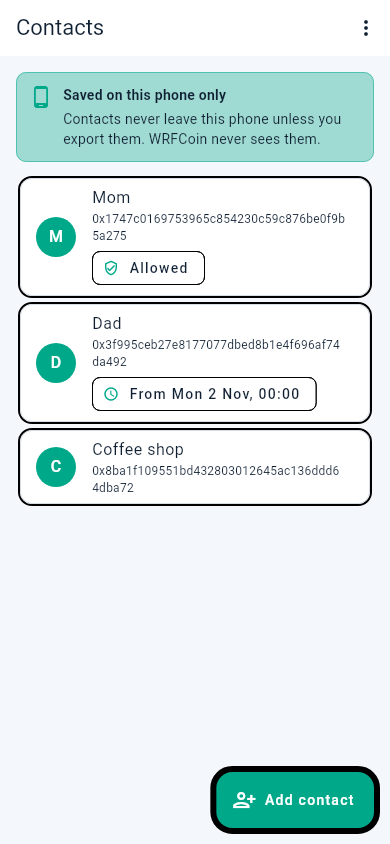
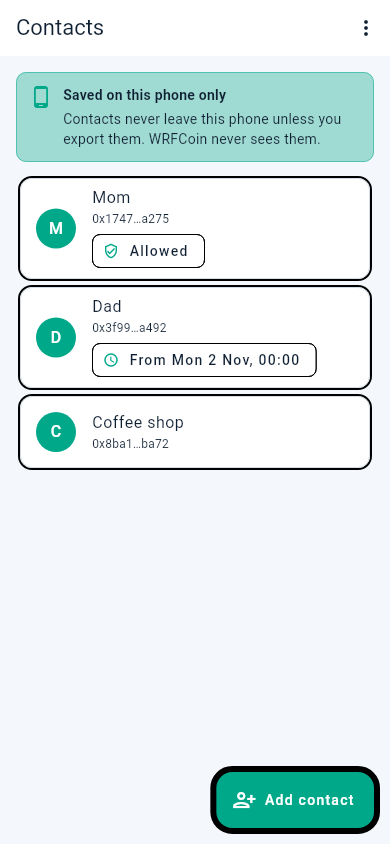
fix(contacts): show the address on one short line (#58)
At phone width the full address ran onto a second line. The list now shows the
short form used elsewhere, like 0x1747…a275. Tapping a contact shows the whole
address, on as many lines as it needs, with a copy button. The import preview still
shows full addresses, since that is where a person checks them before saving.

Claude-Session: https://claude.ai/code/session_01HDDj5uuwph7snk7atTtUPC

Changed region(s): [[0.0308, 0.2464, 0.9538, 0.6161]]

diff --git a/lib/features/wallet/presentation/screens/address_book_screen.dart b/lib/features/wallet/presentation/screens/address_book_screen.dart
@@ -3,6 +3,7 @@ import 'dart:io';
 
 import 'package:file_selector/file_selector.dart';
 import 'package:flutter/material.dart';
+import 'package:flutter/services.dart';
 import 'package:flutter_riverpod/flutter_riverpod.dart';
 import 'package:path/path.dart' as p;
 import 'package:path_provider/path_provider.dart';
@@ -327,6 +328,11 @@ class _PreviewRow extends StatelessWidget {
   );
 }
 
+/// `0x1747…a275`, the short form used for addresses elsewhere in the app.
+String shortContactAddress(String address) => address.length > 14
+    ? '${address.substring(0, 6)}…${address.substring(address.length - 4)}'
+    : address;
+
 class _ContactTile extends StatelessWidget {
   const _ContactTile({
     required this.entry,
@@ -359,13 +365,16 @@ class _ContactTile extends StatelessWidget {
           child: Text(entry.label.characters.first.toUpperCase()),
         ),
         title: Text(entry.label),
-        // The chip sits under the address: beside it, a phone-width row left
-        // the address a few characters per line.
+        // One short line, like addresses elsewhere. Tapping the contact shows
+        // the whole address and a copy button.
         subtitle: Column(
           crossAxisAlignment: CrossAxisAlignment.start,
           children: [
             Text(
-              entry.address,
+              shortContactAddress(entry.address),
+              key: Key('contact-short-${entry.address}'),
+              maxLines: 1,
+              overflow: TextOverflow.ellipsis,
               style: const TextStyle(fontFamily: 'monospace', fontSize: 12),
             ),
             if (chip != null) ...[const SizedBox(height: 4), chip],
@@ -393,6 +402,7 @@ class _ContactDialogState extends ConsumerState<_ContactDialog> {
   late final _name = TextEditingController(text: widget.existing?.label);
   late final _address = TextEditingController(text: widget.existing?.address);
   String? _ownLegacyAlias;
+  bool _copied = false;
 
   @override
   void initState() {
@@ -498,11 +508,31 @@ class _ContactDialogState extends ConsumerState<_ContactDialog> {
               key: const Key('contact-address'),
               controller: _address,
               readOnly: editing,
+              // A saved address is shown whole: the list only has the short form.
+              maxLines: editing ? null : 1,
               decoration: InputDecoration(
                 labelText: 'Address',
                 hintText: '0x...',
-                helperText: editing
-                    ? 'To change the address, add a new contact.'
+                helperText: !editing
+                    ? null
+                    : _copied
+                    ? 'Address copied.'
+                    : 'To change the address, add a new contact.',
+                suffixIcon: editing
+                    ? IconButton(
+                        key: const Key('contact-copy-address'),
+                        tooltip: 'Copy address',
+                        icon: Icon(
+                          _copied ? Icons.check : Icons.copy,
+                          size: 18,
+                        ),
+                        onPressed: () async {
+                          await Clipboard.setData(
+                            ClipboardData(text: widget.existing!.address),
+                          );
+                          if (mounted) setState(() => _copied = true);
+                        },
+                      )
                     : null,
               ),
               style: const TextStyle(fontFamily: 'monospace', fontSize: 13),

diff --git a/test/features/wallet/presentation/screens/wallet_safety_screens_test.dart b/test/features/wallet/presentation/screens/wallet_safety_screens_test.dart
@@ -1,6 +1,8 @@
 import 'dart:convert';
 
 import 'package:flutter/material.dart';
+import 'package:flutter/services.dart';
+import 'package:flutter/rendering.dart';
 import 'package:flutter_riverpod/flutter_riverpod.dart';
 import 'package:flutter_test/flutter_test.dart';
 import 'package:go_router/go_router.dart';
@@ -517,6 +519,65 @@ void main() {
       await tester.pumpAndSettle();
       expect(await storage.getAddressBook(), isEmpty);
     });
+
+    testWidgets(
+      'at 390 px the address is one short line; a tap shows it whole',
+      (tester) async {
+        tester.view.physicalSize = const Size(390, 844);
+        tester.view.devicePixelRatio = 1;
+        addTearDown(tester.view.resetPhysicalSize);
+        addTearDown(tester.view.resetDevicePixelRatio);
+        const address = '0x1747c0169753965c854230c59c876be0f9b5a275';
+        String? copied;
+        tester.binding.defaultBinaryMessenger.setMockMethodCallHandler(
+          SystemChannels.platform,
+          (call) async {
+            if (call.method == 'Clipboard.setData') {
+              copied = (call.arguments as Map)['text'] as String;
+            }
+            return null;
+          },
+        );
+        addTearDown(
+          () => tester.binding.defaultBinaryMessenger.setMockMethodCallHandler(
+            SystemChannels.platform,
+            null,
+          ),
+        );
+        await _pump(
+          tester,
+          const AddressBookScreen(),
+          storage: FakeWalletSecureStorage(
+            addressBook: [
+              const AddressBookEntry(label: 'Mom', address: address),
+            ],
+          ),
+          keyManager: await _keyManager(),
+        );
+
+        final line = find.text('0x1747…a275');
+        expect(line, findsOneWidget);
+        expect(find.text(address), findsNothing);
+        expect(tester.widget<Text>(line).maxLines, 1);
+        final paragraph = tester.renderObject<RenderParagraph>(line);
+        expect(
+          paragraph.didExceedMaxLines,
+          isFalse,
+          reason: 'the short form fits on its line at 390 px',
+        );
+
+        await tester.tap(find.text('Mom'));
+        await tester.pumpAndSettle();
+        final field = tester.widget<TextFormField>(
+          find.byKey(const Key('contact-address')),
+        );
+        expect(field.controller!.text, address);
+        await tester.tap(find.byKey(const Key('contact-copy-address')));
+        await tester.pumpAndSettle();
+        expect(copied, address);
+        expect(find.text('Address copied.'), findsOneWidget);
+      },
+    );
 
     testWidgets('import adds valid contacts, none allowed', (tester) async {
       final storage = FakeWalletSecureStorage(
